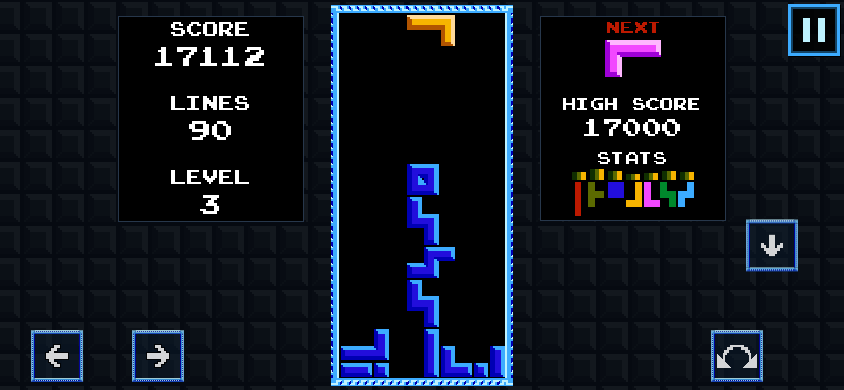
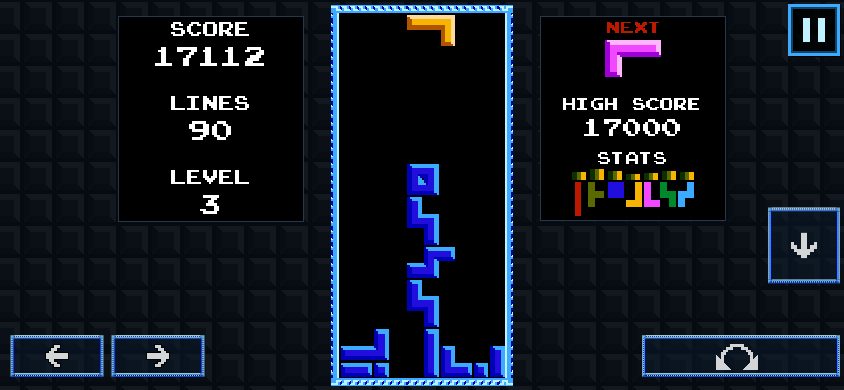
Align and enlarge landscape touch controls

Changed region(s): [[0.0, 0.8308, 0.2464, 0.9846], [0.7393, 0.8308, 1.0, 0.9846], [0.8626, 0.5231, 1.0, 0.7385]]

diff --git a/controls.css b/controls.css
@@ -2,6 +2,8 @@
 .pad {
   --pair-width: 50%;
   --key-height: 48px;
+  --control-inset: 4px;
+  --turn-inset: 0px;
   --pause-size: 52px;
   --cap-width: 48px;
   --cap-height: 42px;
@@ -21,7 +23,7 @@
   align-items: center; width: var(--pair-width); height: var(--key-height);
 }
 .pad .moves { left: 0; }
-.pad .turns { right: 0; }
+.pad .turns { right: var(--turn-inset); }
 .pad .key {
   width: 50%; height: 100%; min-width: 0; padding: 0; border: 0;
   background: transparent; display: grid; place-items: center;
@@ -52,7 +54,7 @@
   image-rendering: pixelated;
 }
 .pad .utility {
-  position: absolute; top: 4px; right: 4px;
+  position: absolute; top: 4px; right: var(--control-inset);
   width: var(--pause-size); height: var(--pause-size); border: 3px solid var(--sky);
   background: rgb(0 0 0 / 80%);
   box-shadow: inset 0 0 0 2px #134263, 1px 1px #000;
@@ -69,6 +71,8 @@
 }
 .pad .key:focus-visible { outline: 2px solid var(--sky); }
 @media (orientation: landscape) {
+  .pad { --pair-width: min(28%, 202px); --turn-inset: 6px; }
+  .pad .moves { left: 6px; }
   .pad > .down {
     --drop-target-height: clamp(76px, 28%, 116px);
     right: 0;
@@ -76,11 +80,6 @@
     width: clamp(104px, 18%, 144px);
     height: var(--drop-target-height);
   }
-}
-@media (orientation: landscape) and (pointer: coarse) {
-  .pad { --pair-width: min(28%, 202px); }
-  .pad .moves { left: 6px; }
-  .pad .turns { right: 6px; }
 }
 
 @media (orientation: portrait) {
@@ -120,9 +119,21 @@
 .pad > .down { --cap-width: 46px; --cap-height: 76px; }
 
 @media (orientation: landscape) {
-  .pad .moves .key, .pad .turns, .pad > .down {
-    --cap-width: var(--pause-size);
-    --cap-height: var(--pause-size);
+  .pad .moves .key { --cap-width: calc(100% - 8px); }
+  .pad .turns {
+    --cap-width: calc(100% - 4px);
+    --rotation-mark-width: 52px;
   }
-  .pad .turns { --rotation-mark-width: 42px; }
+  .pad > .down { --cap-width: 72px; --mark-size: 26px; }
+  .pad .turns::after, .pad > .down::after {
+    left: auto;
+    transform: translateY(-50%);
+  }
+  .pad .turns::after { right: calc(var(--control-inset) - var(--turn-inset)); }
+  .pad > .down::after { right: var(--control-inset); }
+  .pad > .down::before {
+    position: absolute; top: 50%;
+    right: calc(var(--control-inset) + (var(--cap-width) - var(--mark-size)) / 2);
+    transform: translateY(-50%) rotate(90deg);
+  }
 }

diff --git a/controls.js b/controls.js
@@ -14,7 +14,7 @@ export function bindControls({ pad, setInput, pause }) {
   const buttons = [...pad.querySelectorAll('[data-button]')];
   for (const turn of rotation.querySelectorAll('button')) turn.textContent = '';
   const portrait = matchMedia('(orientation: portrait)');
-  const landscape = matchMedia('(orientation: landscape) and (pointer: coarse)');
+  const coarseLandscape = matchMedia('(orientation: landscape) and (pointer: coarse)');
 
   function readPoint(x, y) {
     const box = pad.getBoundingClientRect();
@@ -25,7 +25,7 @@ export function bindControls({ pad, setInput, pause }) {
     if (y >= drop.top && y < drop.bottom) {
       // The arrow marks a horizontal strip, all the way from the
       // movement zone to the right edge. Rotation lives outside it.
-      const movementEdge = landscape.matches
+      const movementEdge = coarseLandscape.matches
         ? Math.min(mid, movement.getBoundingClientRect().right + reach)
         : mid;
       if (x >= movementEdge) return { group: 'drop', button: 'down' };
@@ -34,11 +34,11 @@ export function bindControls({ pad, setInput, pause }) {
     if (y < start) return null;
     const left = x < mid;
     let split = box.left + box.width * (left ? 0.25 : 0.75);
-    if (landscape.matches) {
+    if (!portrait.matches) {
       const cluster = (left ? movement : rotation).getBoundingClientRect();
       // NuBu's landscape thumb zone reaches at least 20px and up to
       // another 12% of the screen beyond the visible pair.
-      if ((left && x >= cluster.right + reach) || (!left && x < cluster.left - reach)) return null;
+      if (coarseLandscape.matches && (left ? x >= cluster.right + reach : x < cluster.left - reach)) return null;
       split = cluster.left + cluster.width * 0.5;
     }
     return left

diff --git a/sw.js b/sw.js
@@ -1,6 +1,6 @@
 // Run python3 tools/refresh-offline.py after modifying the game.
 // BEGIN GENERATED OFFLINE BUNDLE
-const BUILD = 'f101ef46b13fe96578f0';
+const BUILD = '4a2f2160edf6c0beebe0';
 const FILES = [
   ["app.js", "sha256-0sqjWrTMYtDnH2lS3OXSLpoU9qgWRHx1oaLO/Cnm54s="],
   ["assets/arrow.png", "sha256-Xkt8bTzGyHK5hj+6p2X7RirhFsHgQqMSyP3W3DyHzBc="],
@@ -24,8 +24,8 @@ const FILES = [
   ["cartridge-audio.js", "sha256-TsbLnLh13IkLLZhEQEWs+yxi8P15h5kpJ8JZkM2Ps2A="],
   ["cartridge.js", "sha256-s/a7fSRw/gCPGGdIDpTDtHCm5K7R7Ce9BCoc0Cjbqgo="],
   ["compositor.js", "sha256-ub9QhlErYbvYgLGjbueuJGLBqJVnhTwND+Ov6EDjg6U="],
-  ["controls.css", "sha256-gC+BV3GyRxm4WQfPQvn4iPmNapYbjy6tBzcPfBh4q2A="],
-  ["controls.js", "sha256-XIWTtj5ItRHZGJpN9Vk9JdauSgCPU+mEWcWPn20Fvgw="],
+  ["controls.css", "sha256-tTanyvsxk2tnjAltqTMmSLWfozVGMgLaBswijbOXvTA="],
+  ["controls.js", "sha256-/DIGHI3GSB/GU28HgtLScuC2zgJ9AP4KHGLJuQ65UEc="],
   ["engine.js", "sha256-+FI2sSwXKsLuyW6A4CtYCsLZdxRuEMIJff2lfmY+JzM="],
   ["game-ru.nes", "sha256-M/BKw5U+fW092ICDzW+Q/93IBWg9IPqEB9jC2DWxHUY="],
   ["game.nes", "sha256-U5cKKyWBn5UUu38yp7Voo/S9vYdU2p57kUICDxq46mI="],
